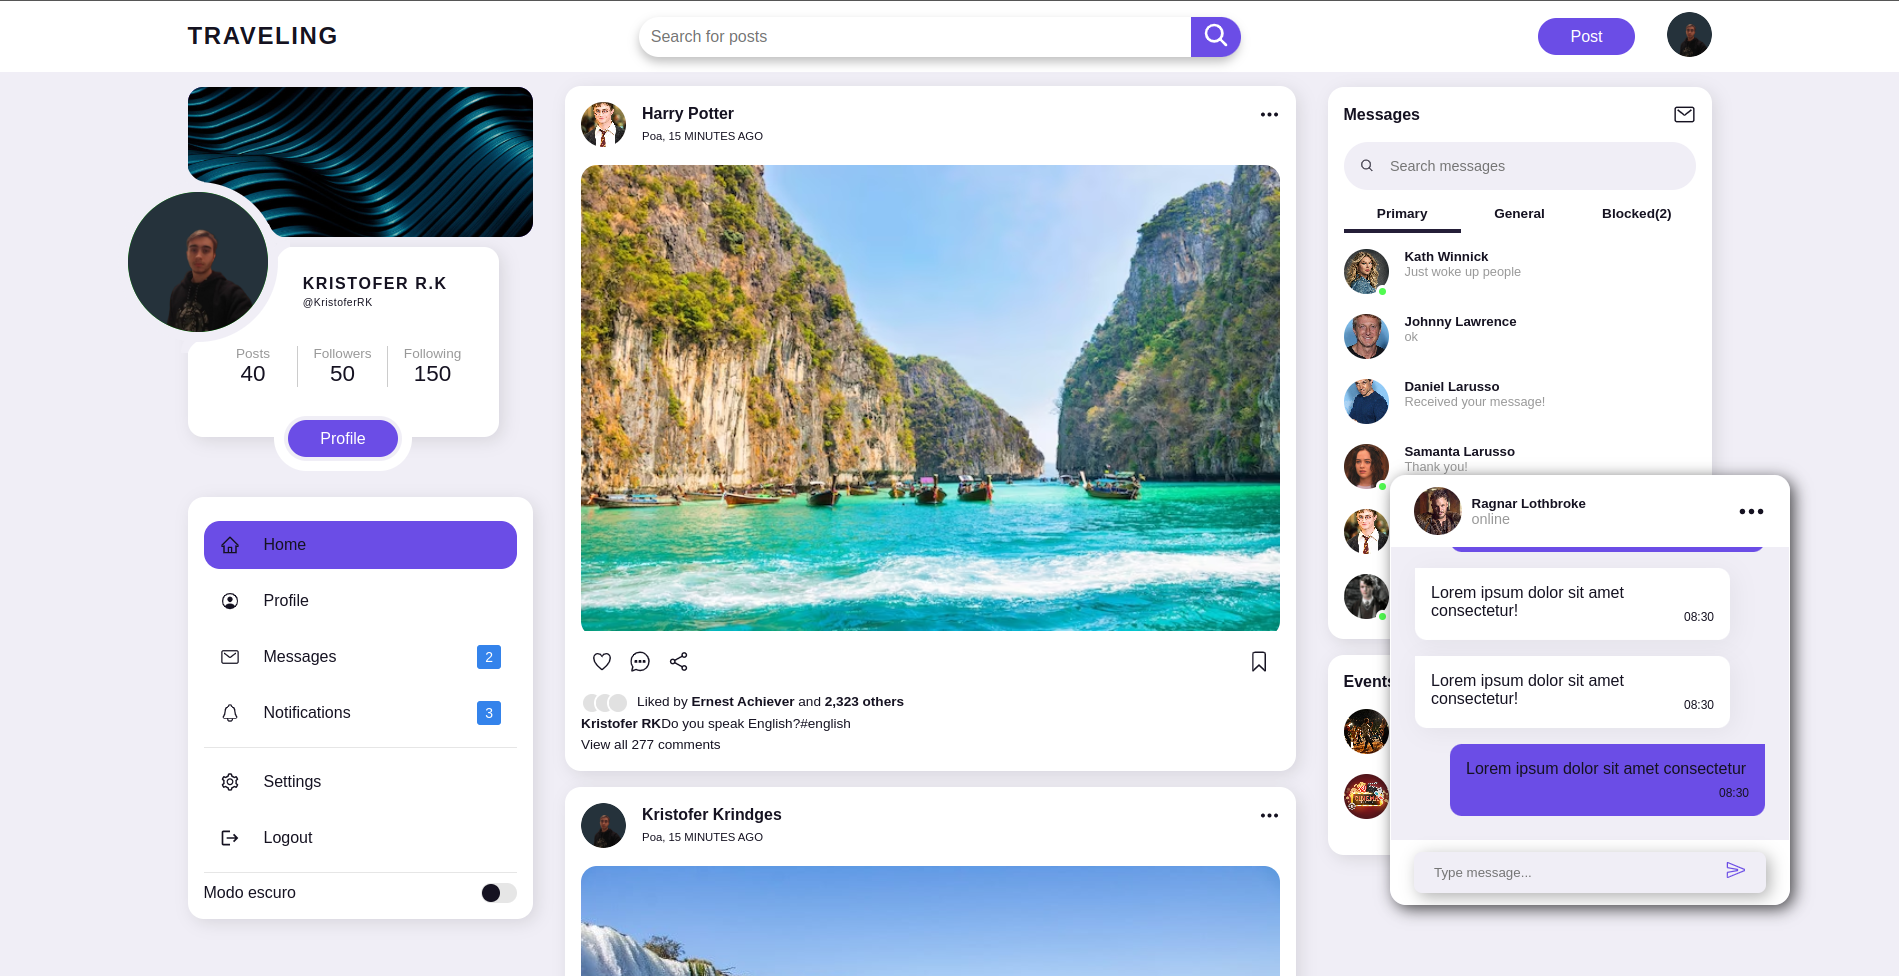
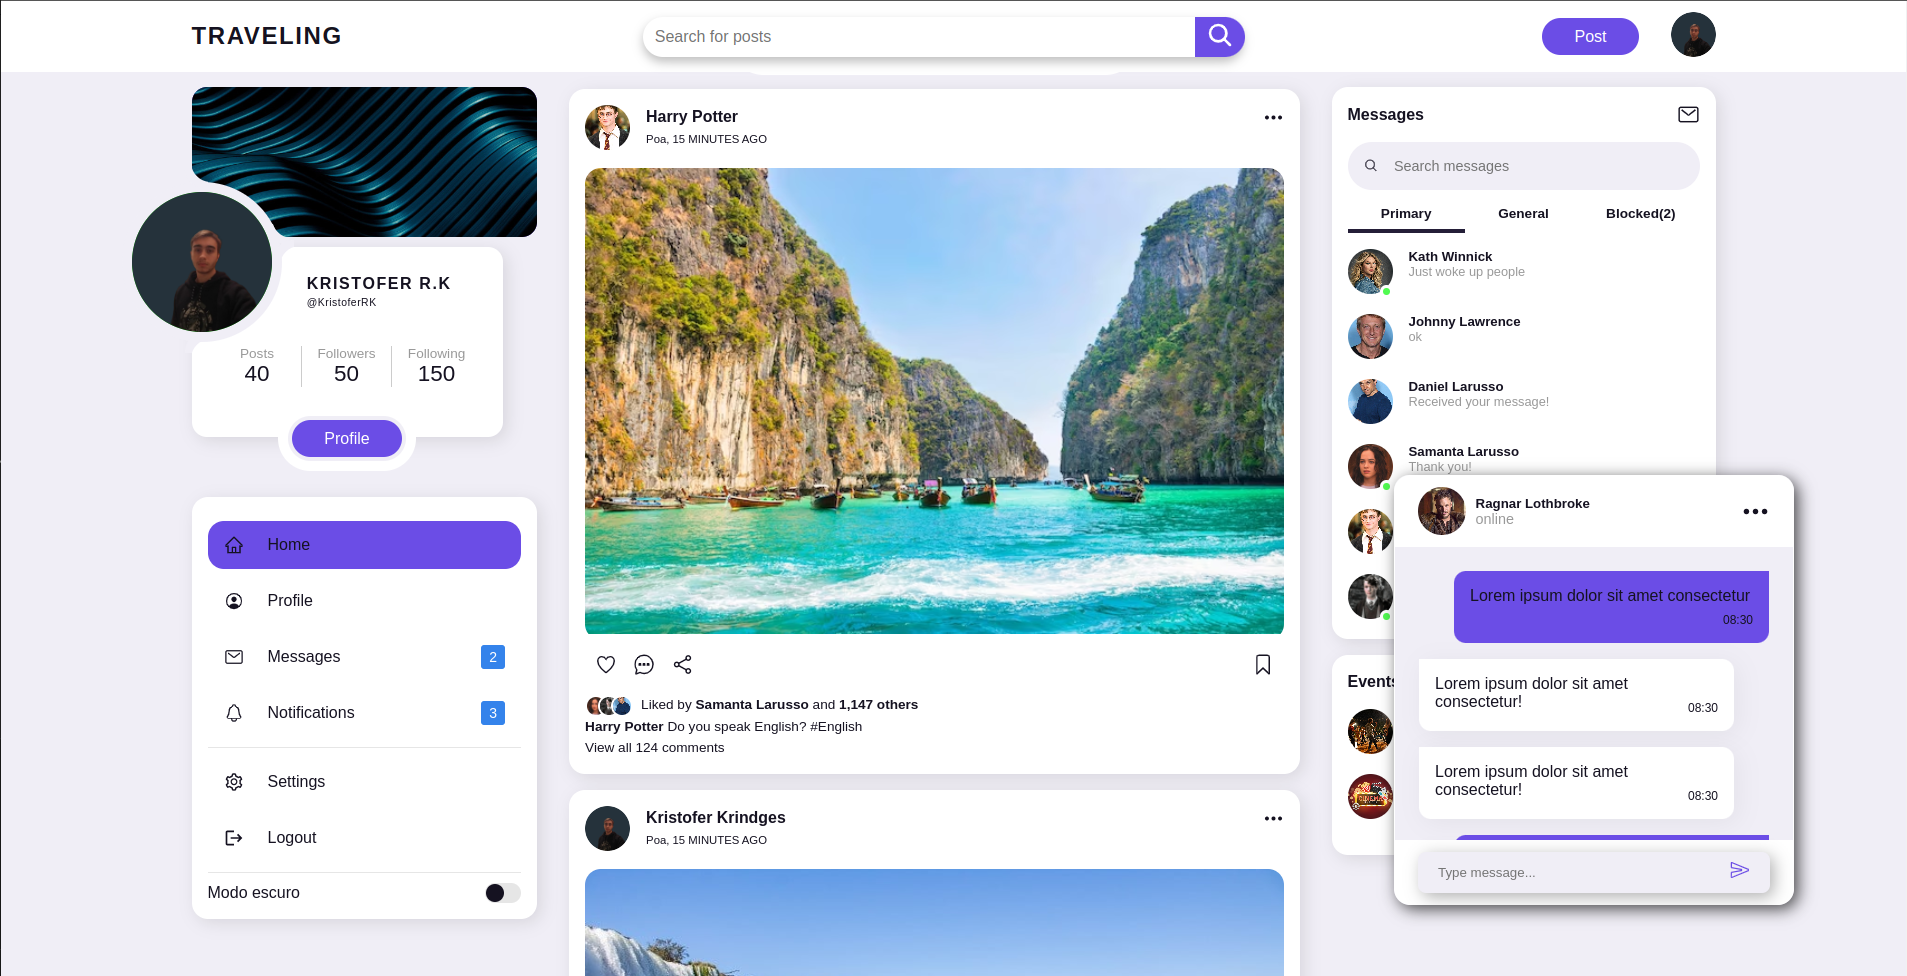
fix photos

diff --git a/src/components/Feeds/index.jsx b/src/components/Feeds/index.jsx
@@ -42,17 +42,17 @@ export default function Feeds() {
 	}
 	const [posts, setPosts] = useState([
 		{
-			userPhoto: Kris,
-			photo:
-				"https://escolaeducacao.com.br/wp-content/uploads/2019/07/praias-Praia-de-Taipu-de-Fora-Pen%C3%ADnsula-de-Mara%C3%BA-Bahia-12.jpg",
-			userName: "Kristofer Krindges",
-		},
-		{
 			userPhoto:
 				"https://p2.trrsf.com/image/fget/cf/1200/1600/middle/images.terra.com/2023/04/14/594335823-harry-potter.jpg",
 			photo:
 				"https://img.freepik.com/fotos-premium/panorama-da-ilha-de-phi-phi_104337-9599.jpg",
 			userName: "Harry Potter",
+		},
+		{
+			userPhoto: Kris,
+			photo:
+				"https://escolaeducacao.com.br/wp-content/uploads/2019/07/praias-Praia-de-Taipu-de-Fora-Pen%C3%ADnsula-de-Mara%C3%BA-Bahia-12.jpg",
+			userName: "Kristofer Krindges",
 		},
 		{
 			userPhoto:
@@ -137,7 +137,7 @@ export default function Feeds() {
 							<Span>
 								<img
 									src={
-										"https://upload.wikimedia.org/wikipedia/commons/7/7c/Profile_avatar_placeholder_large.png?20150327203541"
+										"https://i.scdn.co/image/ab67706c0000da84c498e529d7a388a8c655eb33"
 									}
 									alt=""
 								/>
@@ -145,7 +145,7 @@ export default function Feeds() {
 							<Span>
 								<img
 									src={
-										"https://upload.wikimedia.org/wikipedia/commons/7/7c/Profile_avatar_placeholder_large.png?20150327203541"
+										"https://i.pinimg.com/736x/2e/c2/28/2ec228e768083b48b308247288ad3b0e.jpg"
 									}
 									alt=""
 								/>
@@ -153,22 +153,22 @@ export default function Feeds() {
 							<Span>
 								<img
 									src={
-										"https://upload.wikimedia.org/wikipedia/commons/7/7c/Profile_avatar_placeholder_large.png?20150327203541"
+										"https://upload.wikimedia.org/wikipedia/commons/3/3a/Ralph_Macchio_Photo_Op_GalaxyCon_Richmond_2019.jpg"
 									}
 									alt=""
 								/>
 							</Span>
 							<P>
-								Liked by <b>Ernest Achiever</b> and <b>2,323 others</b>
+								Liked by <b>Samanta Larusso </b> and <b>1,147 others</b>
 							</P>
 						</LikedBy>
 						<Caption>
 							<Pharase>
-								<b>Kristofer RK</b>Do you speak English?
-								<HarshTag>#english</HarshTag>
+								<b>Harry Potter</b> Do you speak English?
+								<HarshTag> #English</HarshTag>
 							</Pharase>
 						</Caption>
-						<TextMuted>View all 277 comments</TextMuted>
+						<TextMuted>View all 124 comments</TextMuted>
 					</Feed>
 				))}
 		</FeedsContainer>

diff --git a/src/components/CardProfile/style.js b/src/components/CardProfile/style.js
@@ -94,22 +94,6 @@ export const EditPhotoProfile = styled.div`
 	}
 `;
 
-// export const EditPhotoProfile = styled.div`
-// 	position: absolute;
-// 	top: 15px;
-// 	right: 250px;
-// 	width: 2rem;
-// 	height: 2rem;
-// 	border-radius: 50%;
-// 	border: 3px solid ${({ theme }) => theme.container};
-// 	background-color: ${({ theme }) => theme.container};
-// 	display: flex;
-// 	align-items: center;
-// 	justify-content: center;
-// 	font-size: 1.1rem;
-// 	cursor: pointer;
-// `;
-
 export const Info = styled.div`
 	position: relative;
 	/* top: 4rem; */

diff --git a/src/components/Feeds/style.js b/src/components/Feeds/style.js
@@ -88,6 +88,17 @@ export const Span = styled.span`
 	&:first-child {
 		margin: 0;
 	}
+
+	img {
+		height: 100%;
+		width: 100%;
+		object-fit: cover;
+		border-radius: 50%;
+		cursor: pointer;
+		&:hover {
+			opacity: 0.5;
+		}
+	}
 `;
 export const P = styled.p`
 	margin-left: 0.5rem;
